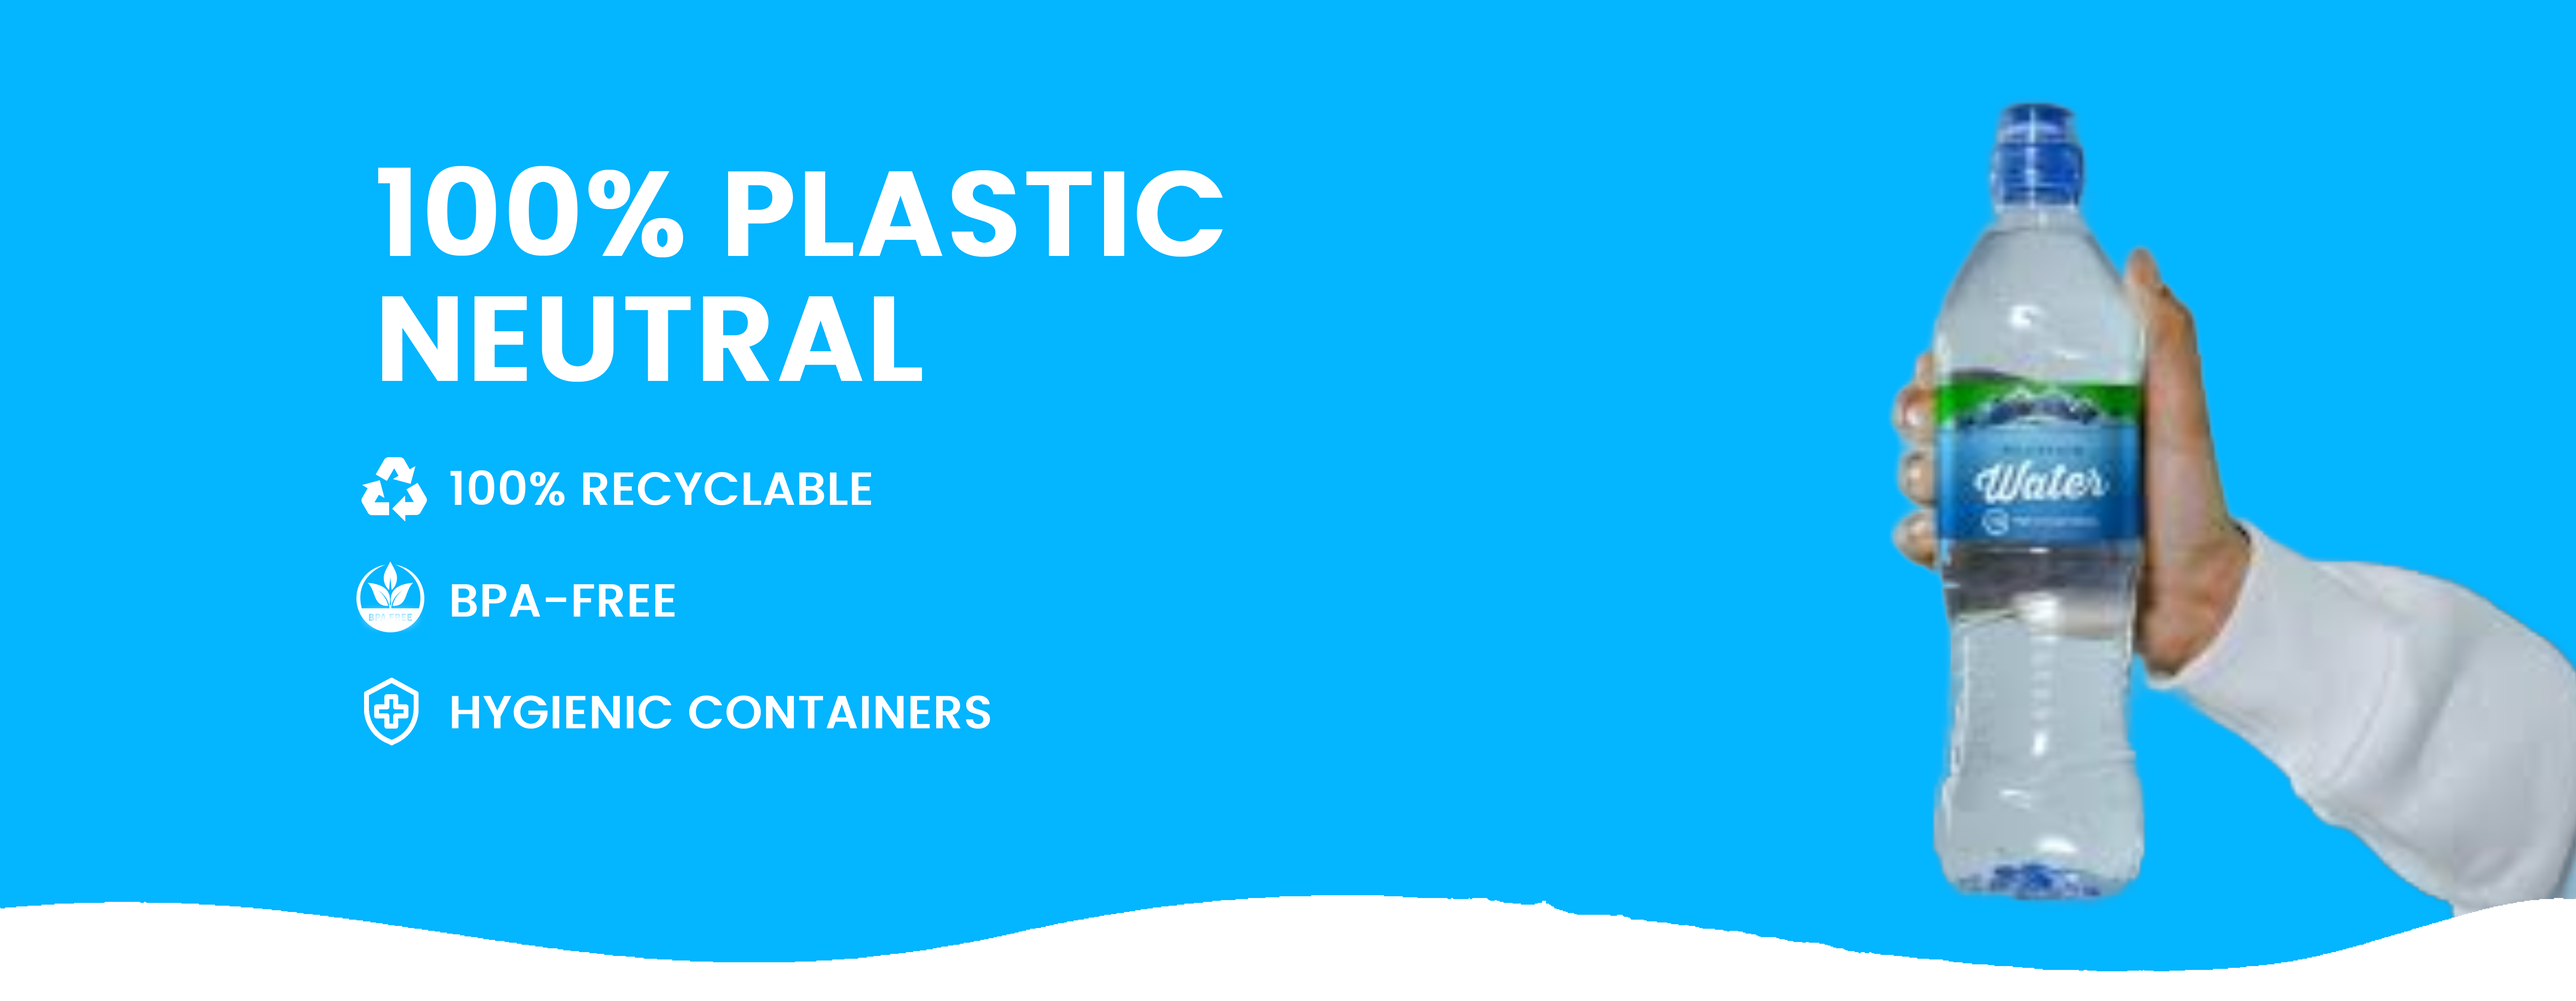
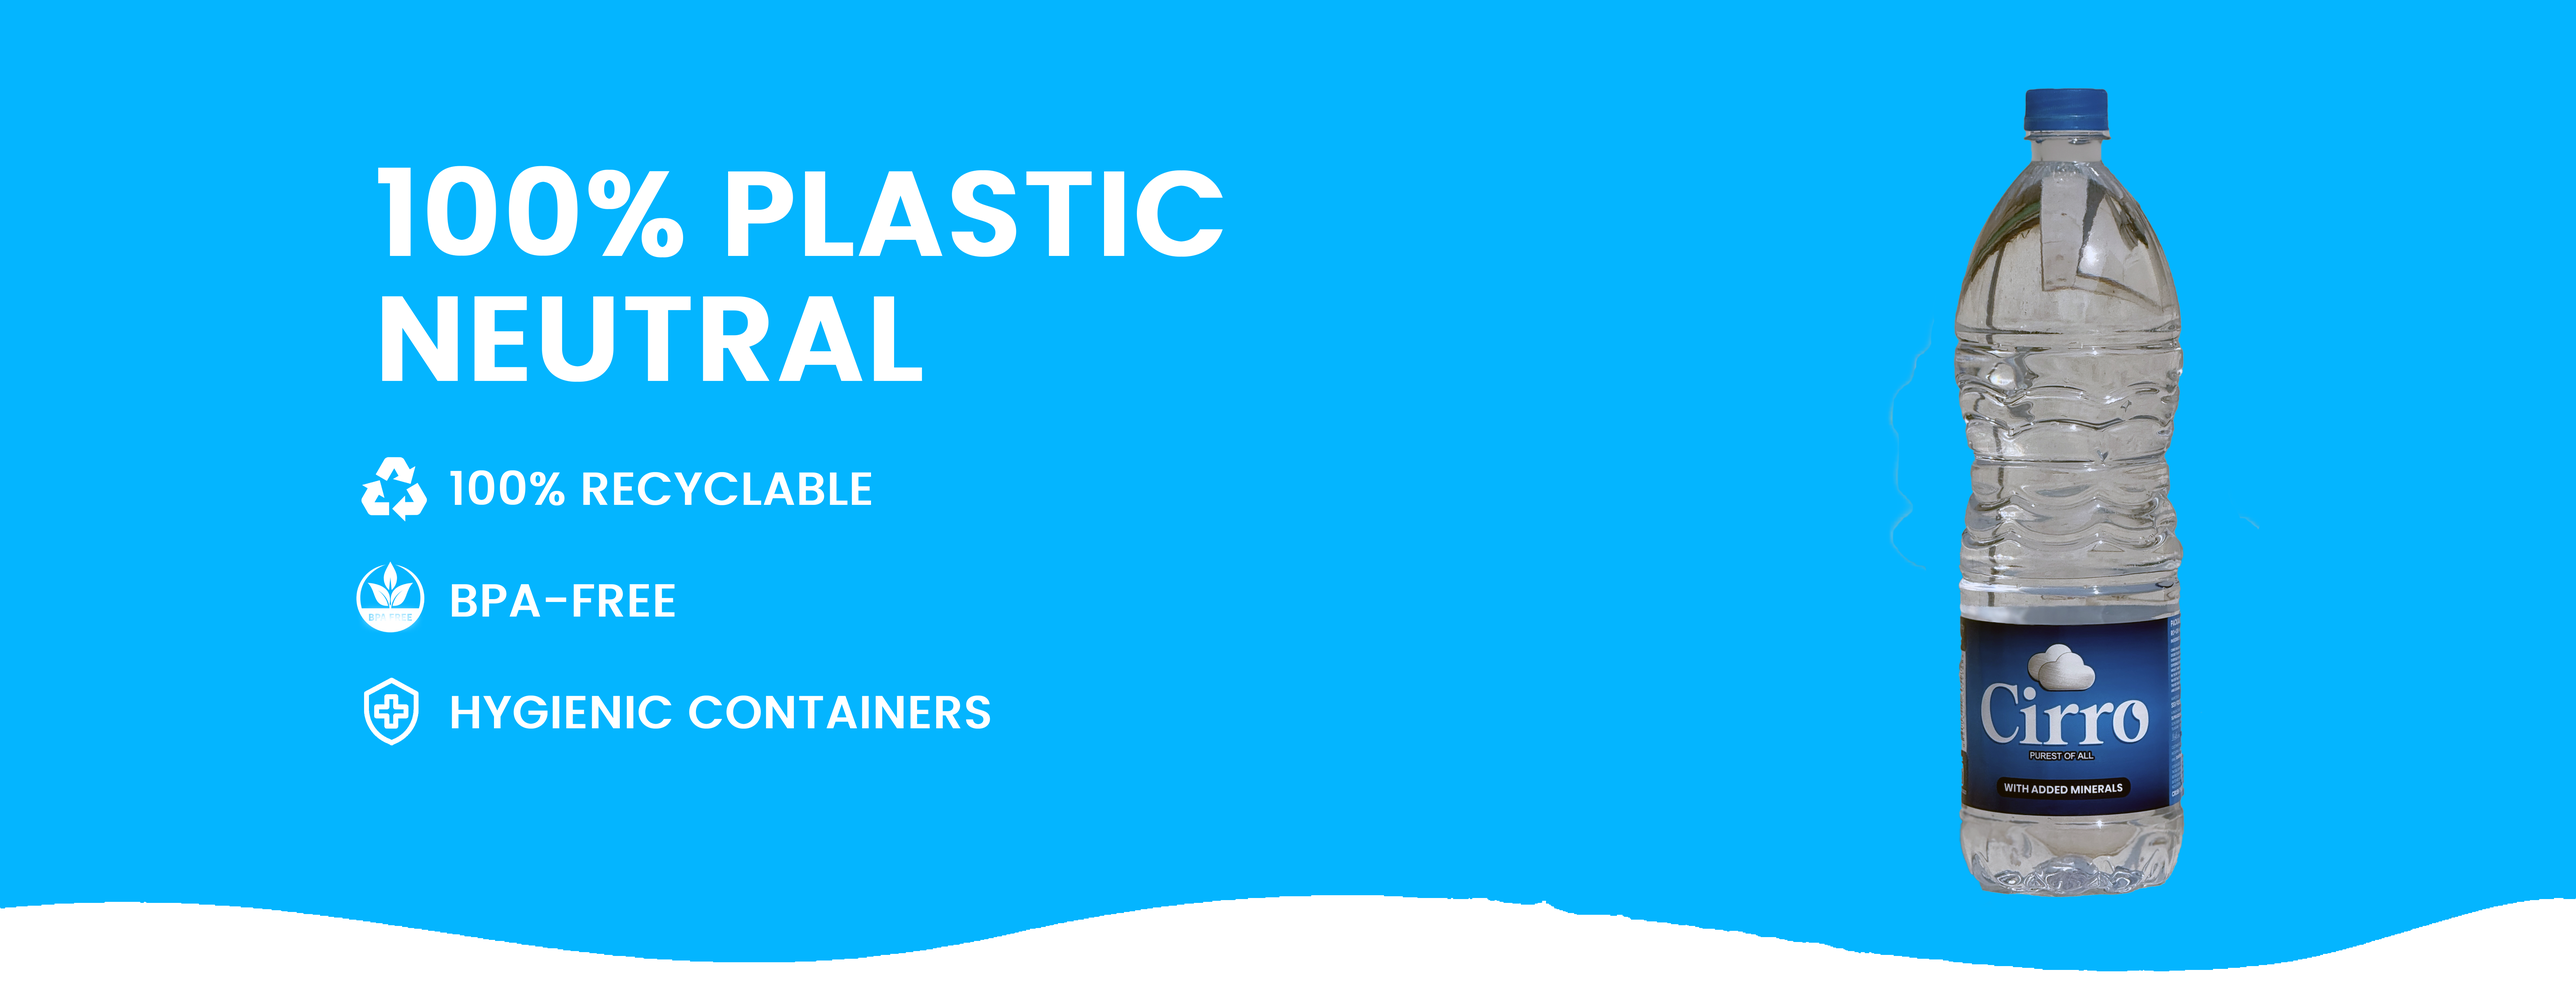
init

Changed region(s): [[0.7175, 0.0621, 1.0, 0.9313]]

diff --git a/src/app/components/Middle.tsx b/src/app/components/Middle.tsx
@@ -21,7 +21,7 @@ const Middle = () => {
           />
         </motion.div>
 
-        <motion.div
+        {/* <motion.div
           className="relative h-full md:h-full"
           initial={{ opacity: 0 }}
           animate={{ opacity: 1 }}
@@ -32,7 +32,7 @@ const Middle = () => {
             alt="100% plastic neutral"
             className="w-full h-full object-cover rounded-lg"
           />
-        </motion.div>
+        </motion.div> */}
       </div>
     </div>
   );

diff --git a/src/app/components/form.jsx b/src/app/components/form.jsx
@@ -2,7 +2,6 @@ import React, { useState } from "react";
 import Button from "@mui/material/Button";
 import TextField from "@mui/material/TextField";
 import Box from "@mui/material/Box";
-import { style } from "@mui/system";
 
 function Form() {
   const [formData, setformData] = useState({
